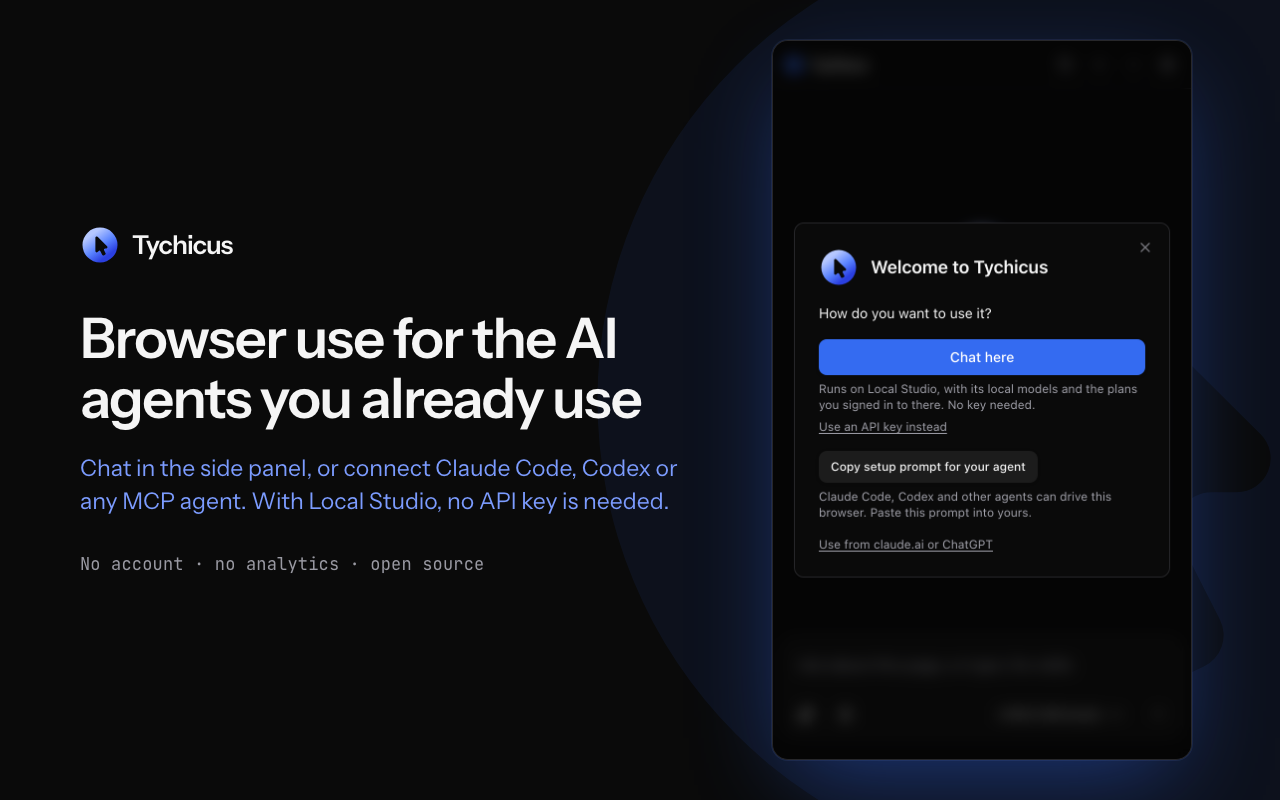
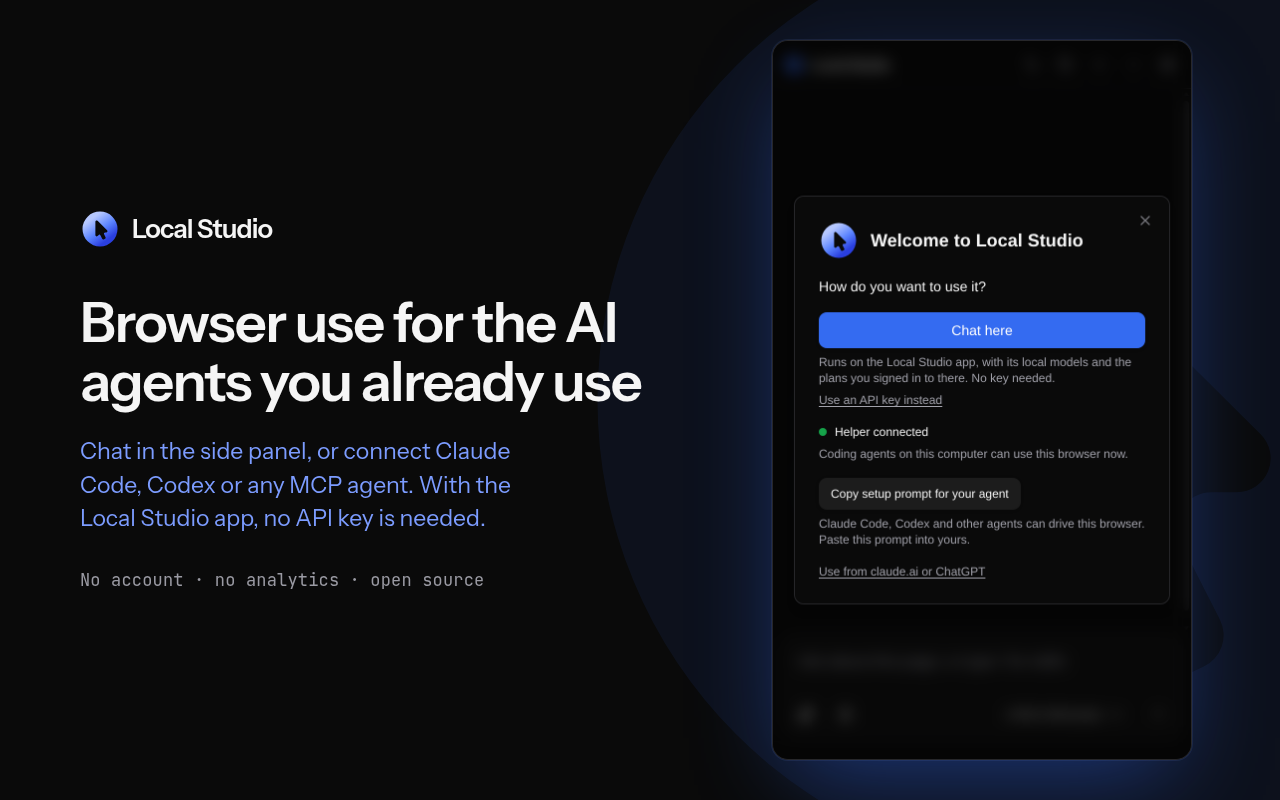
Store listing, store images and the site say Local Studio (tychicus#138)
The images are redrawn from the built extension by scripts/store-shots.mjs,
which now refuses a capture that shows the old name.

diff --git a/browser/site/src/frontend/index.html b/browser/site/src/frontend/index.html
@@ -3,16 +3,16 @@
 <head>
 	<meta charset="UTF-8">
 	<meta name="viewport" content="width=device-width, initial-scale=1.0">
-	<title>Tychicus: you steer, your agents work the tabs</title>
+	<title>Local Studio: you steer, your agents work the tabs</title>
 	<meta name="description" content="Let Claude Code, Codex or any MCP agent drive your real Chromium browser in its own tab group, with your approval for every new site. One command to set up.">
-	<meta property="og:title" content="Tychicus">
+	<meta property="og:title" content="Local Studio">
 	<meta property="og:description" content="You steer. Your agents work the tabs.">
 	<link rel="icon" href="img/favicon.svg" type="image/svg+xml">
 	<link rel="stylesheet" href="app.css">
 </head>
 <body>
 	<header class="nav">
-		<a class="brand" href="#top"><img src="img/icon.svg" alt="" width="28" height="28"><span>Tychicus</span></a>
+		<a class="brand" href="#top"><img src="img/icon.svg" alt="" width="28" height="28"><span>Local Studio</span></a>
 		<nav>
 			<a href="#start">Quick start</a>
 			<a href="#safety">Safety</a>
@@ -41,7 +41,7 @@
 				</p>
 			</div>
 			<figure class="hero-demo">
-				<img src="img/demo.gif" alt="A scripted MCP client searches a library catalog, places a hold and reads the confirmation through Tychicus's tools" width="960" height="464">
+				<img src="img/demo.gif" alt="A scripted MCP client searches a library catalog, places a hold and reads the confirmation through Local Studio's tools" width="960" height="464">
 				<figcaption>A scripted MCP client driving the real stack, recorded headless. The page in each frame is its own screenshot.</figcaption>
 			</figure>
 		</section>
@@ -55,7 +55,7 @@
 <span class="p">$</span> git clone https://github.com/baney75/tabkyra &amp;&amp; cd tabkyra
 <span class="p">$</span> (cd cli &amp;&amp; npm install &amp;&amp; npm run build &amp;&amp; npm link)
 <span class="p">$</span> tychicus setup
-<span class="b">Tychicus</span> <span class="d">setup 0.1.0</span>
+<span class="b">Local Studio</span> <span class="d">setup 0.1.0</span>
 
 <span class="b">1.</span> Build the extension
   <span class="g">✓</span> Extension built <span class="d">(1.1.8)</span>
@@ -70,13 +70,13 @@
 <span class="d">│</span>    and click <span class="w">Load unpacked</span>.                                <span class="d">│</span>
 <span class="d">│</span> <span class="b">2</span>  Pick this folder:                                       <span class="d">│</span>
 <span class="d">│</span>    <span class="c">/path/to/tabkyra/dist-chrome</span>                            <span class="d">│</span>
-<span class="d">│</span> <span class="b">3</span>  Optional: click <span class="w">Details</span> on Tychicus and turn on         <span class="d">│</span>
+<span class="d">│</span> <span class="b">3</span>  Optional: click <span class="w">Details</span> on Local Studio and turn on     <span class="d">│</span>
 <span class="d">│</span>    <span class="w">Allow user scripts</span> (faster page scripts).               <span class="d">│</span>
 <span class="d">╰────────────────────────────────────────────────────────────╯</span>
-  <span class="g">✓</span> Connected. Tychicus can reach your browser <span class="d">(1.1.8)</span>.</code></pre>
+  <span class="g">✓</span> Connected. Local Studio can reach your browser <span class="d">(1.1.8)</span>.</code></pre>
 			</div>
 			<ol class="steps">
-				<li><b>Setup does the work.</b> It builds the extension, registers the native host with every Chromium browser it finds, and offers to add Tychicus to Claude Code and Codex. For OpenCode, Cursor and OMP it prints the config to paste.</li>
+				<li><b>Setup does the work.</b> It builds the extension, registers the native host with every Chromium browser it finds, and offers to add Local Studio to Claude Code and Codex. For OpenCode, Cursor and OMP it prints the config to paste.</li>
 				<li><b>One step is yours.</b> Browsers make you load an unpacked extension by hand. Setup shows the exact folder and waits until it connects.</li>
 				<li><b>Ask your agent.</b> For example: <i>"Use Tychicus to open news.ycombinator.com and list the top five stories."</i> If anything is off, <code>tychicus doctor</code> prints the exact fix.</li>
 			</ol>
@@ -96,11 +96,11 @@
 				</article>
 				<article>
 					<h3>Its own tab group</h3>
-					<p>Agents work in "Tychicus · claude" and similar groups, in background tabs. They can't see your other tabs, and their popups don't steal focus.</p>
+					<p>Agents work in "Local Studio · claude" and similar groups, in background tabs. They can't see your other tabs, and their popups don't steal focus.</p>
 				</article>
 				<article>
 					<h3>Nothing on the network</h3>
-					<p>The browser starts a native host that talks over a Unix socket other users can't open. Only the Tychicus extension can make the browser start it. Programs running as you can reach it, as they can your shell.</p>
+					<p>The browser starts a native host that talks over a Unix socket other users can't open. Only the Local Studio extension can make the browser start it. Programs running as you can reach it, as they can your shell.</p>
 				</article>
 			</div>
 		</section>
@@ -113,7 +113,7 @@
 				<g class="node"><rect x="206" y="20" width="176" height="80" rx="14"/><text x="294" y="56">tychicus mcp</text><text class="sub" x="294" y="78">MCP over stdio</text></g>
 				<g class="node"><rect x="412" y="20" width="176" height="80" rx="14"/><text x="500" y="56">Native host</text><text class="sub" x="500" y="78">Unix socket, user-only</text></g>
 				<g class="node"><rect x="618" y="20" width="176" height="80" rx="14"/><text x="706" y="56">Extension</text><text class="sub" x="706" y="78">native messaging</text></g>
-				<g class="node tabs"><rect x="824" y="20" width="176" height="80" rx="14"/><text x="912" y="56">Background tabs</text><text class="sub" x="912" y="78">Tychicus · claude</text></g>
+				<g class="node tabs"><rect x="824" y="20" width="176" height="80" rx="14"/><text x="912" y="56">Background tabs</text><text class="sub" x="912" y="78">Local Studio · claude</text></g>
 				<g class="edge"><line x1="179" y1="60" x2="203" y2="60" marker-end="url(#ar)"/><line x1="385" y1="60" x2="409" y2="60" marker-end="url(#ar)"/><line x1="591" y1="60" x2="615" y2="60" marker-end="url(#ar)"/><line x1="797" y1="60" x2="821" y2="60" marker-end="url(#ar)"/></g>
 			</svg>
 			<p class="section-lede">Each agent session gets its own tab group, and it survives extension reloads, so a harness that reconnects lands back on its own tabs. Screenshots and input go through <code>chrome.debugger</code>, which works on hidden tabs, so your window never has to be in front.</p>
@@ -125,7 +125,7 @@
 				<article>
 					<h3><a href="https://github.com/0xSero">0xSero</a></h3>
 					<p class="repo"><a href="https://github.com/0xSero/sitegeist">github.com/0xSero/sitegeist</a></p>
-					<p>Built the agent bridge Tychicus is made of: the native messaging host, the CLI and MCP server, one tab group per agent, background screenshots and input, per-tab side panels and the foreground guard.</p>
+					<p>Built the agent bridge Local Studio is built on: the native messaging host, the CLI and MCP server, one tab group per agent, background screenshots and input, per-tab side panels and the foreground guard.</p>
 				</article>
 				<article>
 					<h3><a href="https://github.com/badlogic">Mario Zechner</a></h3>
@@ -133,7 +133,7 @@
 					<p>Wrote Sitegeist, the original extension and its side panel agent, and the pi and mini-lit libraries it runs on.</p>
 				</article>
 				<article>
-					<h3><a href="https://github.com/baney75/tabkyra">Tychicus</a></h3>
+					<h3><a href="https://github.com/baney75/tabkyra">Local Studio</a></h3>
 					<p class="repo"><a href="https://github.com/baney75/tabkyra">github.com/baney75/tabkyra</a></p>
 					<p>The name and brand, one-command setup, the doctor, Helium support, and MCP tools documented for agents. AGPL-3.0, like upstream.</p>
 				</article>
@@ -142,7 +142,7 @@
 	</main>
 
 	<footer>
-		<div class="foot-brand"><img src="img/icon.svg" alt="" width="22" height="22"> Tychicus <span>· Paul's courier, Ephesians 6:21</span></div>
+		<div class="foot-brand"><img src="img/icon.svg" alt="" width="22" height="22"> Local Studio</div>
 		<p>
 			Built on <a href="https://github.com/0xSero/sitegeist">0xSero's agent bridge</a> and
 			<a href="https://github.com/badlogic/sitegeist">Mario Zechner's Sitegeist</a>.

diff --git a/browser/site/src/frontend/app.css b/browser/site/src/frontend/app.css
@@ -1,4 +1,4 @@
-/* Tychicus site. Palette and type: media/brand/BRAND.md. */
+/* Local Studio site. Palette and type: media/brand/BRAND.md. */
 :root {
 	--ink: #0f1b24;
 	--ink-2: #142430;

diff --git a/browser/store/listing.md b/browser/store/listing.md
@@ -10,7 +10,7 @@ scripts/build-store.sh "$HOME/Downloads/tychicus-store"
 ```
 
 It writes `tychicus-<version>-store.zip` (the version is `static/manifest.chrome.json`'s, which must equal
-`package.json`'s). The build refuses a zip whose manifest has a `key`, a name other than Tychicus, a missing icon, or a
+`package.json`'s). The build refuses a zip whose manifest has a `key`, a name other than Local Studio, a missing icon, or a
 permission with no row in permissions.md.
 
 ## Order of the first upload
@@ -30,7 +30,7 @@ permission with no row in permissions.md.
 
 ## Store listing tab
 
-**Title:** Tychicus
+**Title:** Local Studio
 
 **Summary** (from the manifest's `description`, 132 characters at most):
 
@@ -45,14 +45,14 @@ Lets AI agents work in your browser, in their own tab group, while you keep work
 **Description:**
 
 ```
-Tychicus lets an AI agent work in your browser while you keep working. The agent gets a tab group of its own and works there in the background: it opens pages, reads them, clicks, fills in forms and checks its own work, without taking focus from the tab you are using. Your tabs stay yours.
+Local Studio lets an AI agent work in your browser while you keep working. The agent gets a tab group of its own and works there in the background: it opens pages, reads them, clicks, fills in forms and checks its own work, without taking focus from the tab you are using. Your tabs stay yours.
 
 What it does well:
 
 • Its own tab group. Each agent works in a group of its own tabs, marked while it works, with a pointer that shows what it is doing and a "Take over" button.
 • Background tabs, no stolen focus. The agent acts in its tabs without bringing them to the front, so you can keep typing somewhere else.
-• The agents you already use. Claude Code, Codex, Cursor, OpenCode, pi and any other MCP agent drive your browser through the free Tychicus helper on your computer. With the helper and your own Tailscale or Cloudflare tunnel, claude.ai, ChatGPT and grok.com can use it too.
-• Local models through Local Studio. With Local Studio on your computer, the side panel chats on your local models and the plans you signed in to there, with no API key or sign-in in the extension.
+• The agents you already use. Claude Code, Codex, Cursor, OpenCode, pi and any other MCP agent drive your browser through the free Local Studio helper on your computer. With the helper and your own Tailscale or Cloudflare tunnel, claude.ai, ChatGPT and grok.com can use it too.
+• Local models through the Local Studio app. With the app on your computer, the side panel chats on your local models and the plans you signed in to there, with no API key or sign-in in the extension.
 • Or bring an API key from Anthropic, OpenAI, Google, OpenRouter and others, or use a free OpenRouter key.
 
 Set up the helper in one command. The welcome screen shows the one for your computer with a Copy button, and shows the helper connected as soon as it runs.
@@ -69,13 +69,13 @@ You stay in charge:
 • It stops and hands the tab to you for sign-ins and captchas.
 • Private mode sends prompts only to models that don't keep them, or to your own machines.
 
-No account, no analytics, and open source under the AGPL-3.0. Tychicus runs no servers of its own. Your chats and settings stay on your computer, and your messages, and what the agent reads, go only to the AI you picked.
+No account, no analytics, and open source under the AGPL-3.0. Local Studio runs no servers of its own. Your chats and settings stay on your computer, and your messages, and what the agent reads, go only to the AI you picked.
 
-Tychicus comes three ways: a Local Studio plugin, an app you install on its own, and this Chrome extension. The extension works with or without Local Studio.
+The browser tools come three ways: with the Local Studio app, as a helper you install on its own, and as this Chrome extension. The extension works with or without the app.
 
-A note on provider terms: using a consumer chat subscription through automation may break that provider's terms of service. Some allow it, some forbid it, and terms change. Tychicus doesn't decide this for you. Read your provider's terms before you connect a subscription; API keys under a developer agreement are the safer route where terms are unclear.
+A note on provider terms: using a consumer chat subscription through automation may break that provider's terms of service. Some allow it, some forbid it, and terms change. Local Studio doesn't decide this for you. Read your provider's terms before you connect a subscription; API keys under a developer agreement are the safer route where terms are unclear.
 
-Local Studio chats need macOS or Linux for now.
+Chats through the Local Studio app need macOS or Linux for now.
 
 Source: https://github.com/baney75/tychicus
 Built on 0xSero's agent bridge and Mario Zechner's Sitegeist.
@@ -98,7 +98,7 @@ Built on 0xSero's agent bridge and Mario Zechner's Sitegeist.
 **Single purpose:**
 
 ```
-Tychicus lets AI agents operate web pages in the user's browser on the user's behalf, from its side panel or from an AI agent the user connects.
+Local Studio lets AI agents operate web pages in the user's browser on the user's behalf, from its side panel or from an AI agent the user connects.
 ```
 
 **Permission justifications:** paste each row of [permissions.md](permissions.md) into its box.
@@ -137,5 +137,5 @@ No account is needed.
 3. Ask: "Open example.com and tell me what the page says."
 4. Approve example.com when asked. A new tab group opens, and the agent reads the page in it.
 
-Connecting a coding agent needs the free Tychicus helper. The welcome shows the command that installs it (curl -fsSL https://github.com/baney75/tychicus/releases/latest/download/install.sh | sh on macOS and Linux). It isn't required to review the side panel.
+Connecting a coding agent needs the free Local Studio helper. The welcome shows the command that installs it (curl -fsSL https://github.com/baney75/tychicus/releases/latest/download/install.sh | sh on macOS and Linux). It isn't required to review the side panel.
 ```

diff --git a/browser/store/permissions.md b/browser/store/permissions.md
@@ -16,8 +16,8 @@ or a row names something the manifest no longer asks for.
 | `debugger` | The agent's clicks, typing and page reads go through the Chrome DevTools Protocol. This is the only way to send real input to a background tab, and to read pages whose security policy blocks injected scripts. It attaches only to tabs the agent opened or the user gave it. |
 | `declarativeNetRequest` | One fixed rule set in the package, `ads-rules.json`, blocks requests to known ad networks, off until the user turns on "Block ads" in Settings. Rules made from the user's own site edits (Settings > Sites) block the requests those edits name, on the sites the user chose. No other traffic is changed. |
 | `tabGroups` | Puts the agent's tabs in their own named group, so they stay separate from the user's tabs. |
-| `contextMenus` | Adds "Give this tab to Tychicus" to a page's right-click menu and the toolbar icon's menu, so the user can hand the tab to the side panel or to an agent working in the browser. |
-| `nativeMessaging` | Talks to the Tychicus helper on the user's own computer. The side panel's default, "Local Studio", sends each chat through it to Local Studio's model service on the same computer, so the extension never holds an API key or sign-in. Coding agents such as Claude Code reach the browser through it too. Key-based providers work without it. |
+| `contextMenus` | Adds "Give this tab to Local Studio" to a page's right-click menu and the toolbar icon's menu, so the user can hand the tab to the side panel or to an agent working in the browser. |
+| `nativeMessaging` | Talks to Local Studio's helper on the user's own computer. The side panel's default, "Local Studio", sends each chat through it to the Local Studio app's model service on the same computer, so the extension never holds an API key or sign-in. Coding agents such as Claude Code reach the browser through it too. Key-based providers work without it. |
 | `alarms` | Keeps the connection to the helper alive across service worker restarts, and checks the helper's update status. |
 | `offscreen` | Reads the text of a PDF the agent opens, page by page, in a hidden page of the extension: Chrome's PDF viewer has no page text, and the reader (pdf.js) needs a worker a service worker can't start. The same page encodes a video of the agent's own tab when the user's agent asks for a recording (a service worker has no video encoder); the helper saves it to a file on the user's computer. Nothing leaves the computer. |
 | `userScripts` (optional) | Asked for only when the user turns it on. Runs the agent's page scripts in an isolated world, so they can't touch the page's own scripts and aren't blocked by its security policy. |
